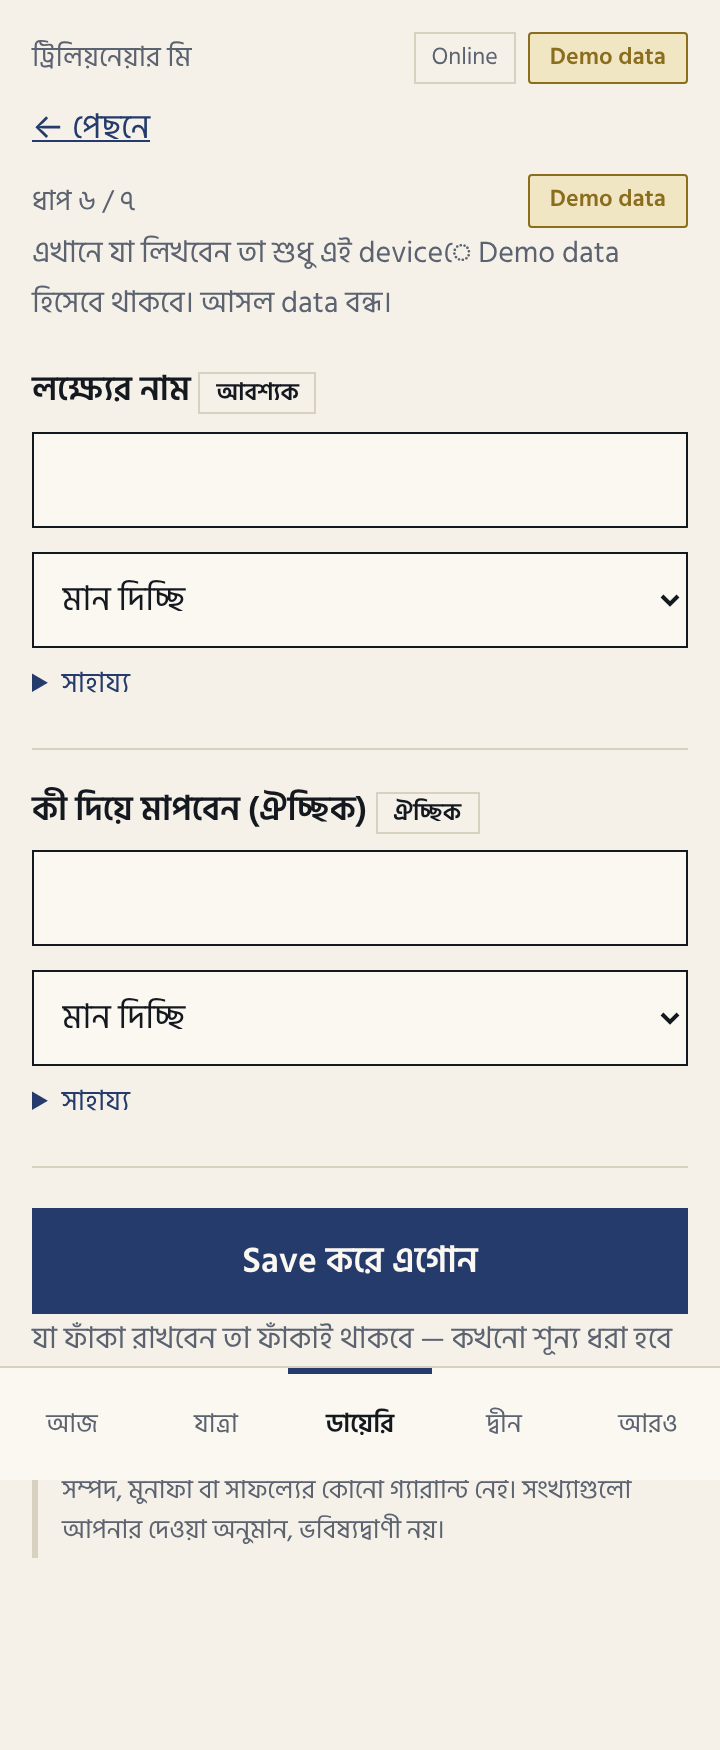
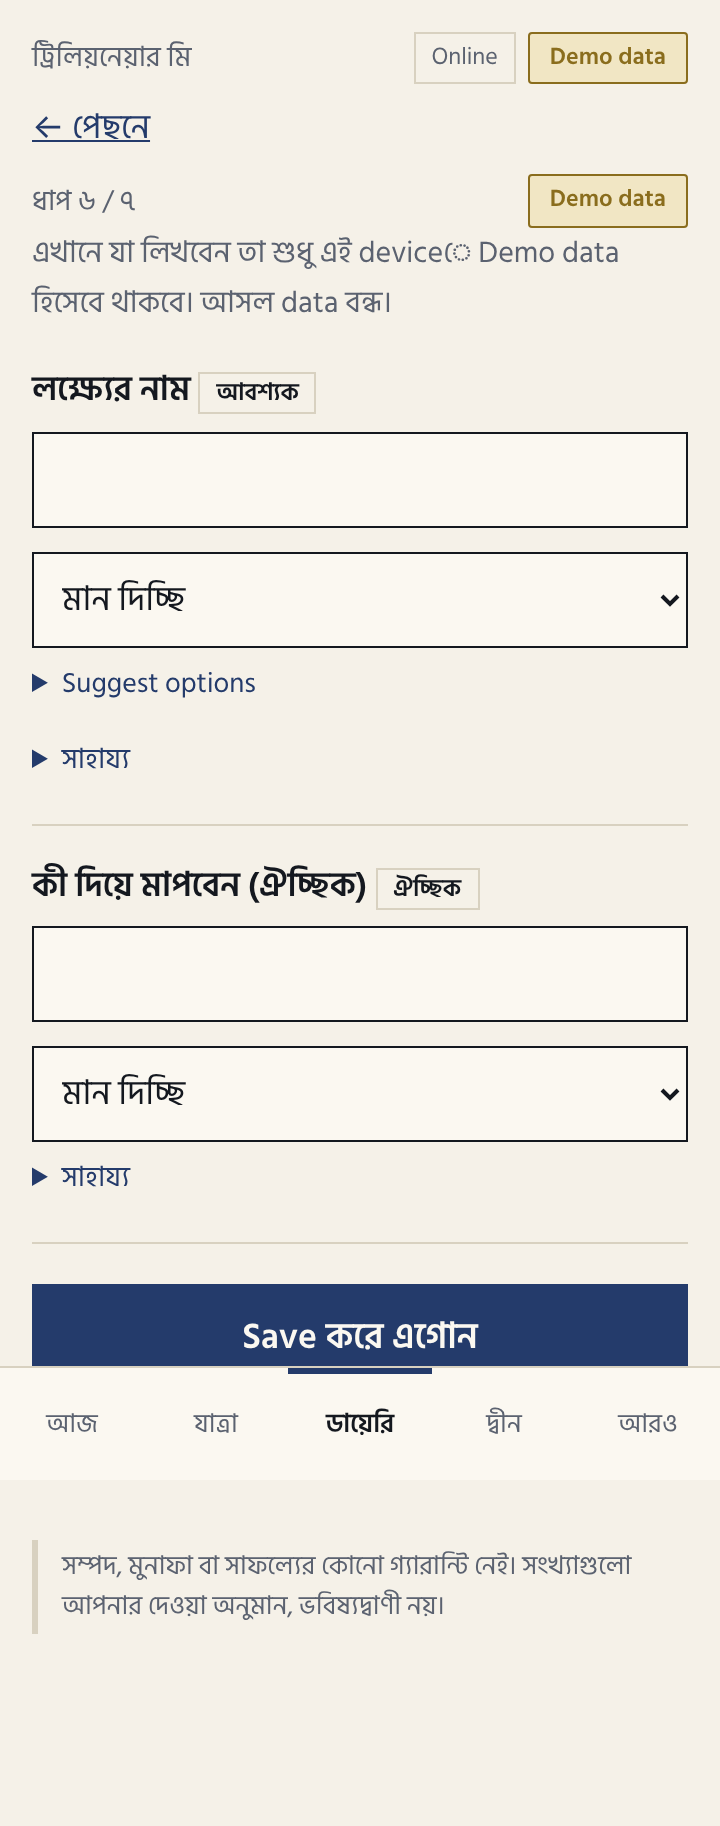
G4 start: in-app Suggest (Wikipedia, click-consent, 2-3 option cards, fills the field)
Claude-Session: https://claude.ai/code/session_01ECQLEnTuJEEpTPr8wz4yQ9

diff --git a/src/i18n/packs.ts b/src/i18n/packs.ts
@@ -83,6 +83,7 @@ const en = {
   "data.nopromote": "Demo data can never be converted into real data.",
   "data.clearDemo": "Delete my demo entries",
   "data.cleared": "Demo entries deleted.",
+  "suggest.btn": "Suggest options", "suggest.consent": "This sends your search words to Wikipedia. Nothing else leaves your phone.", "suggest.go": "Search Wikipedia", "suggest.loading": "Searching…", "suggest.use": "Use this", "suggest.own": "I'll write my own", "suggest.none": "No clear options found. You can write your own.", "suggest.offline": "You are offline. Showing saved options (if any). You can write your own.", "suggest.error": "Search did not work. You can write your own.", "suggest.secret": "Please do not search with passwords or numbers like that.", "suggest.source": "Source: {s} · {d}", "suggest.empty": "Type the field first, then tap Suggest.",
   "backup.title": "Backup", "backup.save": "Download demo backup", "backup.restore": "Restore from backup file", "backup.ok": "Restored {n} records.", "backup.bad": "This file cannot be restored: {why}. Nothing was changed.", "backup.note": "Restoring replaces your demo entries. Real data is locked.",
   "empty.slot": "Empty — structure only",
   "empty.stageNote": "Pass rules are built later.",
@@ -173,6 +174,7 @@ const bn: Record<Key, string> = {
   "data.nopromote": "Demo data কখনো আসল dataয় রূপান্তর করা যায় না।",
   "data.clearDemo": "আমার Demo এন্ট্রি মুছুন",
   "data.cleared": "Demo এন্ট্রি মুছে ফেলা হয়েছে।",
+  "suggest.btn": "Suggest options", "suggest.consent": "এতে আপনার search-এর শব্দ Wikipedia-তে যাবে। আর কিছু ফোনের বাইরে যায় না।", "suggest.go": "Wikipedia-তে খুঁজুন", "suggest.loading": "খোঁজা হচ্ছে…", "suggest.use": "এটা নিন", "suggest.own": "নিজে লিখব", "suggest.none": "পরিষ্কার কোনো অপশন পাওয়া যায়নি। নিজে লিখতে পারেন।", "suggest.offline": "আপনি offline। সংরক্ষিত অপশন (থাকলে) দেখানো হচ্ছে। নিজে লিখতে পারেন।", "suggest.error": "Search কাজ করেনি। নিজে লিখতে পারেন।", "suggest.secret": "পাসওয়ার্ড বা এমন নম্বর দিয়ে খুঁজবেন না।", "suggest.source": "সূত্র: {s} · {d}", "suggest.empty": "আগে ঘরে কিছু লিখুন, তারপর Suggest চাপুন।",
   "backup.title": "Backup", "backup.save": "Demo Backup নামান", "backup.restore": "Backup ফাইল থেকে ফেরান", "backup.ok": "{n}টি রেকর্ড ফেরানো হয়েছে।", "backup.bad": "এই ফাইল ফেরানো যাবে না: {why}। কিছুই বদলায়নি।", "backup.note": "ফেরালে আপনার Demo এন্ট্রি বদলে যাবে। আসল data বন্ধ।",
   "empty.slot": "ফাঁকা — শুধু কাঠামো",
   "empty.stageNote": "পাসের নিয়ম পরে বানানো হবে।",

diff --git a/src/ui/screens.ts b/src/ui/screens.ts
@@ -15,6 +15,8 @@ import { type FieldValue, type TMRecord, type UnknownState } from "../core/types
 import type { FieldDef } from "../catalog/types";
 import { StoreRepo } from "../adapters/storeRepo";
 import { createBackup, restoreBackup } from "../core/backup";
+import { research, safeQuery } from "../core/research";
+import { wikipedia } from "../adapters/wikipedia";
 import { GLOSSARY } from "../catalog/glossary";
 
 const L = () => prefs.lang;
@@ -153,6 +155,32 @@ function inputFor(f: FieldDef, lang: Locale, cur: FieldValue | undefined): { el:
   return { el, read };
 }
 
+const SUGGESTABLE = new Set(["interest.topic", "skill.name", "strength.name", "value.name", "goal.title"]);
+
+/** Inline option cards: nothing is sent until the user taps the search button (consent). */
+function suggestPanel(f: FieldDef, lang: Locale, getInput: () => HTMLInputElement): HTMLElement {
+  const box = h("div", { class: "suggest", "data-suggest": f.id });
+  const out = h("div", { role: "status" });
+  const go = h("button", { class: "btn ghost", type: "button", "data-act": "suggest-go" }, t("suggest.go", lang));
+  go.addEventListener("click", async () => {
+    const input = getInput(); const q = input.value.trim();
+    if (!q) { out.replaceChildren(h("p", { class: "err" }, t("suggest.empty", lang))); return; }
+    const safe = safeQuery(q);
+    if (!safe) { out.replaceChildren(h("p", { class: "err" }, t("suggest.secret", lang))); return; }
+    out.replaceChildren(h("p", { class: "muted" }, t("suggest.loading", lang)));
+    const r = await research(safe, true, { provider: wikipedia(lang), online: () => navigator.onLine });
+    const cards = r.options.map((o) => h("div", { class: "card", "data-option": o.id },
+      h("h3", {}, o.title), h("p", { class: "muted" }, o.snippet),
+      h("p", { class: "muted" }, t("suggest.source", lang, { s: o.sourceName, d: o.fetchedAt.slice(0, 10) })),
+      h("button", { class: "btn", type: "button", onclick: () => { input.value = o.title; out.replaceChildren(); input.focus(); } }, t("suggest.use", lang))));
+    const note = r.status === "too_few" ? "suggest.none" : r.status === "offline" ? "suggest.offline" : r.status === "error" ? "suggest.error" : null;
+    out.replaceChildren(...cards, ...(note ? [h("p", { class: "muted" }, t(note, lang))] : []),
+      h("button", { class: "btn ghost", type: "button", onclick: () => { out.replaceChildren(); getInput().focus(); } }, t("suggest.own", lang)));
+  });
+  box.append(h("p", { class: "muted" }, t("suggest.consent", lang)), go, out);
+  return h("details", { class: "help" }, h("summary", {}, t("suggest.btn", lang)), box);
+}
+
 export function intake(stepParam: string | undefined): HTMLElement {
   const lang = L();
   const steps = intakeSteps();
@@ -170,7 +198,7 @@ export function intake(stepParam: string | undefined): HTMLElement {
     readers.push({ f, read: ip.read, err });
     form.append(h("div", { class: "field", "data-field": f.id },
       h("label", { for: `f-${f.id}` }, tb(f.label, lang), " ", h("span", { class: "tag" }, t(`requirement.${f.requirement}` as Key, lang))),
-      ip.el, err, fieldHelp(f, lang)));
+      ip.el, err, SUGGESTABLE.has(f.id) ? suggestPanel(f, lang, () => document.getElementById(`f-${f.id}`) as HTMLInputElement) : null, fieldHelp(f, lang)));
   }
   form.addEventListener("submit", (ev) => {
     ev.preventDefault();

diff --git a/tests/wikipedia.test.ts b/tests/wikipedia.test.ts
@@ -1,0 +1,24 @@
+import { describe, expect, it, vi } from "vitest";
+import { wikipedia } from "../src/adapters/wikipedia";
+import { research } from "../src/core/research";
+
+const fakeFetch = (rows: { title: string; snippet: string }[], ok = true) => vi.fn(async (_u: string) => ({ ok, json: async () => ({ query: { search: rows } }) }));
+describe("Wikipedia provider", () => {
+  it("builds a safe URL per language and strips HTML from snippets", async () => {
+    const f = fakeFetch([{ title: "Book keeping", snippet: 'A <span class="x">record</span> &amp; more <script>x</script>' }]);
+    const r = await wikipedia("bn", f).search("a b&c");
+    const url = f.mock.calls[0]![0];
+    expect(url).toMatch(/^https:\/\/bn\.wikipedia\.org\/w\/api\.php\?/); expect(url).toContain("srsearch=a%20b%26c"); expect(url).toContain("origin=*");
+    expect(r[0]!.snippet).toBe("A record & more x"); expect(r[0]!.snippet).not.toMatch(/[<>]/);
+    expect(r[0]!.sourceUrl).toBe("https://bn.wikipedia.org/wiki/Book_keeping");
+  });
+  it("works end-to-end through research(): 3 options with source+date", async () => {
+    const rows = [1, 2, 3, 4].map((i) => ({ title: `T${i}`, snippet: "s" }));
+    const r = await research("x", true, { provider: wikipedia("en", fakeFetch(rows)), online: () => true });
+    expect(r.status).toBe("options"); expect(r.options).toHaveLength(3);
+  });
+  it("HTTP failure becomes 'error', never a crash", async () => {
+    const r = await research("x", true, { provider: wikipedia("en", fakeFetch([], false)), online: () => true });
+    expect(r.status).toBe("error");
+  });
+});

diff --git a/tests/g1.test.ts b/tests/g1.test.ts
@@ -58,7 +58,8 @@ describe("TM-TST-034 secrets are rejected", () => {
   it("does not block ordinary text", () => { for (const g of good) expect(checkFreeText(g).ok, g).toBe(true); });
   it("code has no logging, network or analytics sinks (0 occurrences)", () => {
     const re = /console\.|\bfetch\s*\(|XMLHttpRequest|sendBeacon|WebSocket|navigator\.share|gtag|analytics/;
-    for (const f of srcFiles().filter((x) => x.endsWith(".ts"))) expect(re.test(read(f)), f).toBe(false);
+    // the Wikipedia adapter is the single allowed network file; everything else must stay offline-pure
+    for (const f of srcFiles().filter((x) => x.endsWith(".ts") && !x.endsWith("adapters/wikipedia.ts"))) expect(re.test(read(f)), f).toBe(false);
   });
   it("exports redact secret-looking strings", () => {
     const store = new Store(new MemoryKV());
@@ -186,7 +187,7 @@ describe("TM-TST-144 capability status", () => {
 });
 
 // Owner decision: common English words stay in English inside the Bangla version (easier to read).
-const COMMON_ENGLISH_KEYS = new Set(["badge.demo", "status.online", "status.offline", "label.DEMO", "help.format", "more.theme", "cap.demo", "data.demo", "backup.title"]);
+const COMMON_ENGLISH_KEYS = new Set(["badge.demo", "status.online", "status.offline", "label.DEMO", "help.format", "more.theme", "cap.demo", "data.demo", "backup.title", "suggest.btn"]);
 describe("i18n parity (completeness gate)", () => {
   const en = PACKS.en as Record<string, string>, bn = PACKS.bn as Record<string, string>;
   it("key parity, no empties, same placeholders, Bangla script present", () => {

diff --git a/src/adapters/wikipedia.ts b/src/adapters/wikipedia.ts
@@ -1,0 +1,23 @@
+// Wikipedia search provider (free, no key). The ONLY file allowed to touch the network (checked in tests).
+import type { SearchProvider } from "../core/research";
+
+type Fetch = (url: string, init?: { signal?: AbortSignal }) => Promise<{ ok: boolean; json(): Promise<unknown> }>;
+const stripTags = (s: string) => s.replace(/<[^>]*>/g, "").replace(/&quot;/g, '"').replace(/&amp;/g, "&").replace(/&#039;/g, "'").replace(/&lt;/g, "<").replace(/&gt;/g, ">").replace(/\s+/g, " ").trim();
+
+export function wikipedia(lang: "bn" | "en", doFetch: Fetch = (u, i) => fetch(u, i)): SearchProvider {
+  const host = `https://${lang}.wikipedia.org`;
+  return {
+    name: `wikipedia-${lang}`,
+    async search(query, signal) {
+      const url = `${host}/w/api.php?action=query&list=search&format=json&origin=*&srlimit=5&srprop=snippet&srsearch=${encodeURIComponent(query)}`;
+      const res = await doFetch(url, { signal });
+      if (!res.ok) throw new Error("search failed");
+      const data = (await res.json()) as { query?: { search?: { title: string; snippet: string }[] } };
+      return (data.query?.search ?? []).map((r) => ({
+        title: stripTags(r.title), snippet: stripTags(r.snippet),
+        sourceName: lang === "bn" ? "Wikipedia (বাংলা)" : "Wikipedia",
+        sourceUrl: `${host}/wiki/${encodeURIComponent(r.title.replace(/ /g, "_"))}`,
+      }));
+    },
+  };
+}

diff --git a/DECISIONS_LOG.md b/DECISIONS_LOG.md
@@ -17,3 +17,4 @@ Format: what · why · alternatives · how to undo. Owner decisions (D-A, D-E) a
 | L-12 | Research = injected provider + consent contract now; engine choice deferred to G4 | Google API key cannot live in a browser; paid beyond free quota (§4.1) | wire Google now | swap provider |
 | L-13 | App storage = in-memory store mirrored write-through to IndexedDB; old localStorage records imported once | screens stay synchronous; durable data | rewrite screens async | `initStorage()` in `src/ui/state.ts`; remove MirrorKV |
 | L-14 | Notifications hide worship/health/money/third-party details by default | MR-14 | show details | `hideDetails:false` pref |
+| L-15 | In-app Suggest uses Wikipedia (free, no key) behind click-consent; sends only the typed search words; Wikipedia adapter is the only network file | owner asked for it (23 Oct); CLAUDE.md §4.2 satisfied by explicit request + per-click consent | Google via Supabase function (needs key/cap approval) | delete `src/adapters/wikipedia.ts` + `SUGGESTABLE` in screens.ts |

diff --git a/docs/PLAN.md b/docs/PLAN.md
@@ -14,7 +14,7 @@
 | G1 | built, evidence in `evidence/`; open: usability sessions, Bangla review |
 | G2 | repo+Dexie ✅, backup/restore ✅, op-queue/conflict rules ✅; **next:** app on IndexedDB, PNG install icons, notifications privacy, PWA-vs-native note; owner: real-phone airplane test |
 | G3 | planner, finance maths, stage rules (no AI) |
-| G4 | research UI: Wikipedia provider + option cards (contract ✅) |
+| G4 | in progress: Wikipedia provider ✅, option cards on 5 intake fields ✅; open: own-options list, saved offline list, more screens |
 | G5 | Deen content verification (needs D-D) |
 | G6 | AI/automation (needs D-C) |
 | G7 | privacy/legal/real data (needs D-B) |
